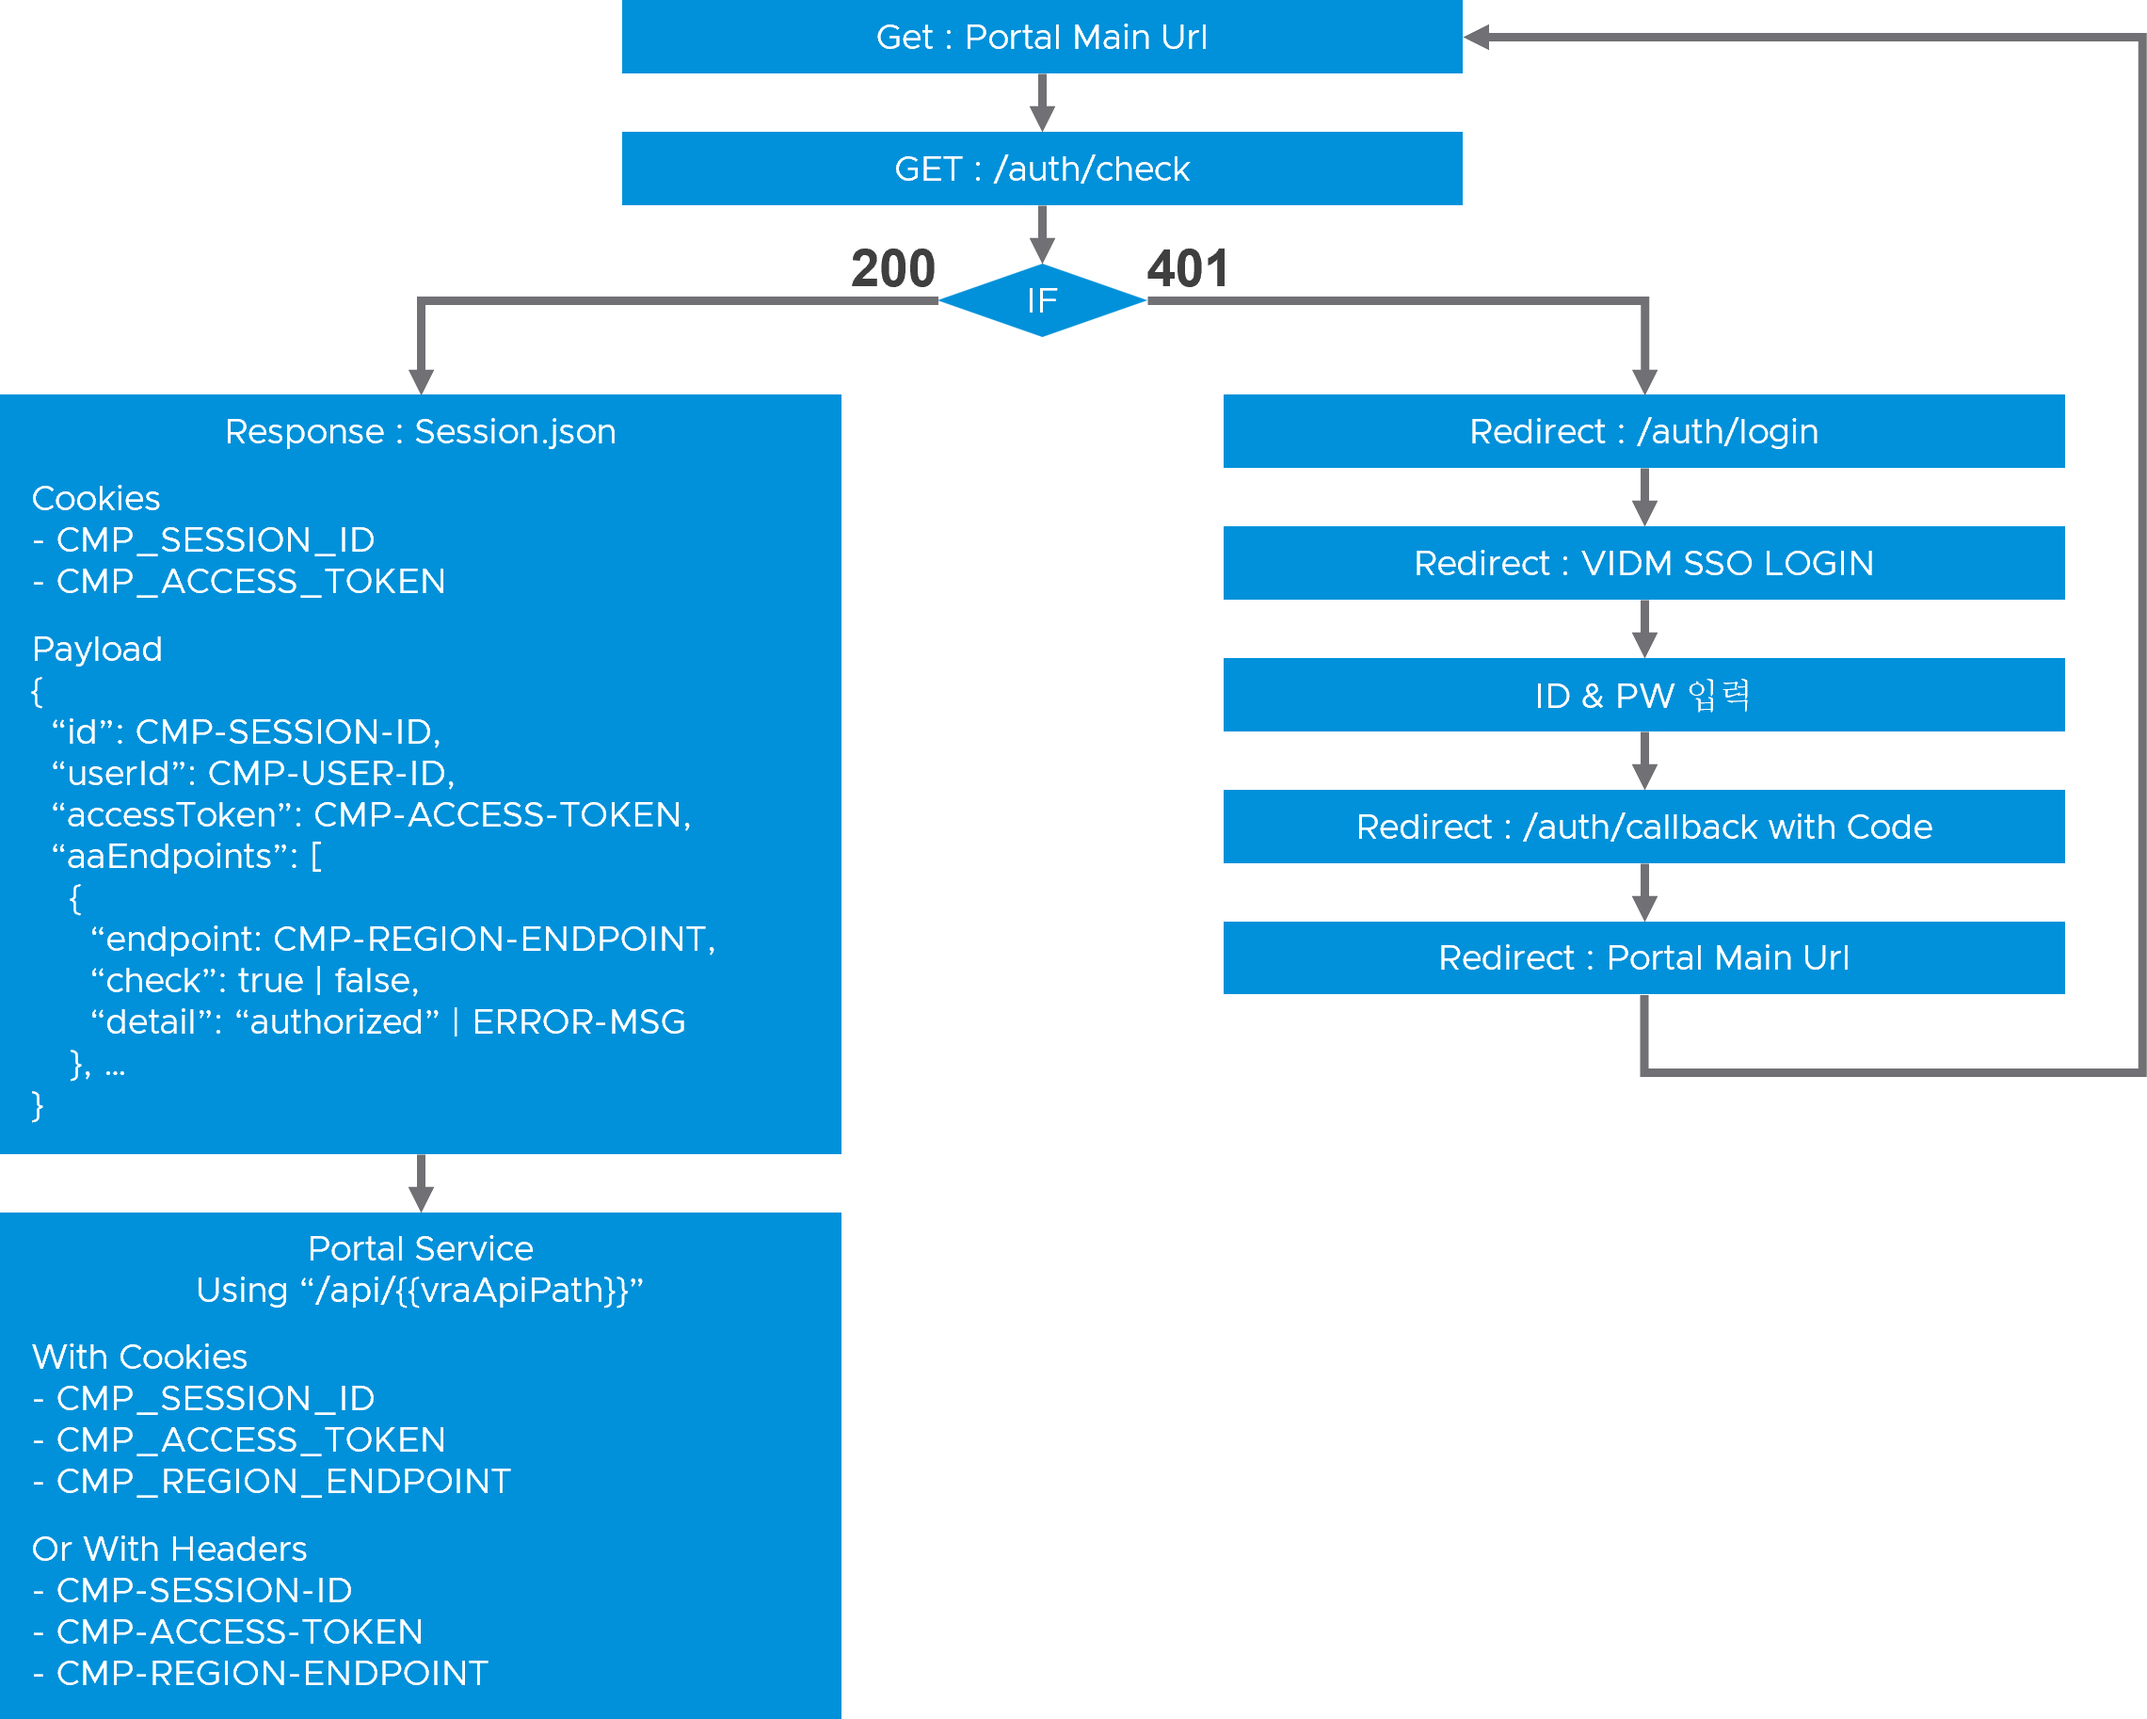
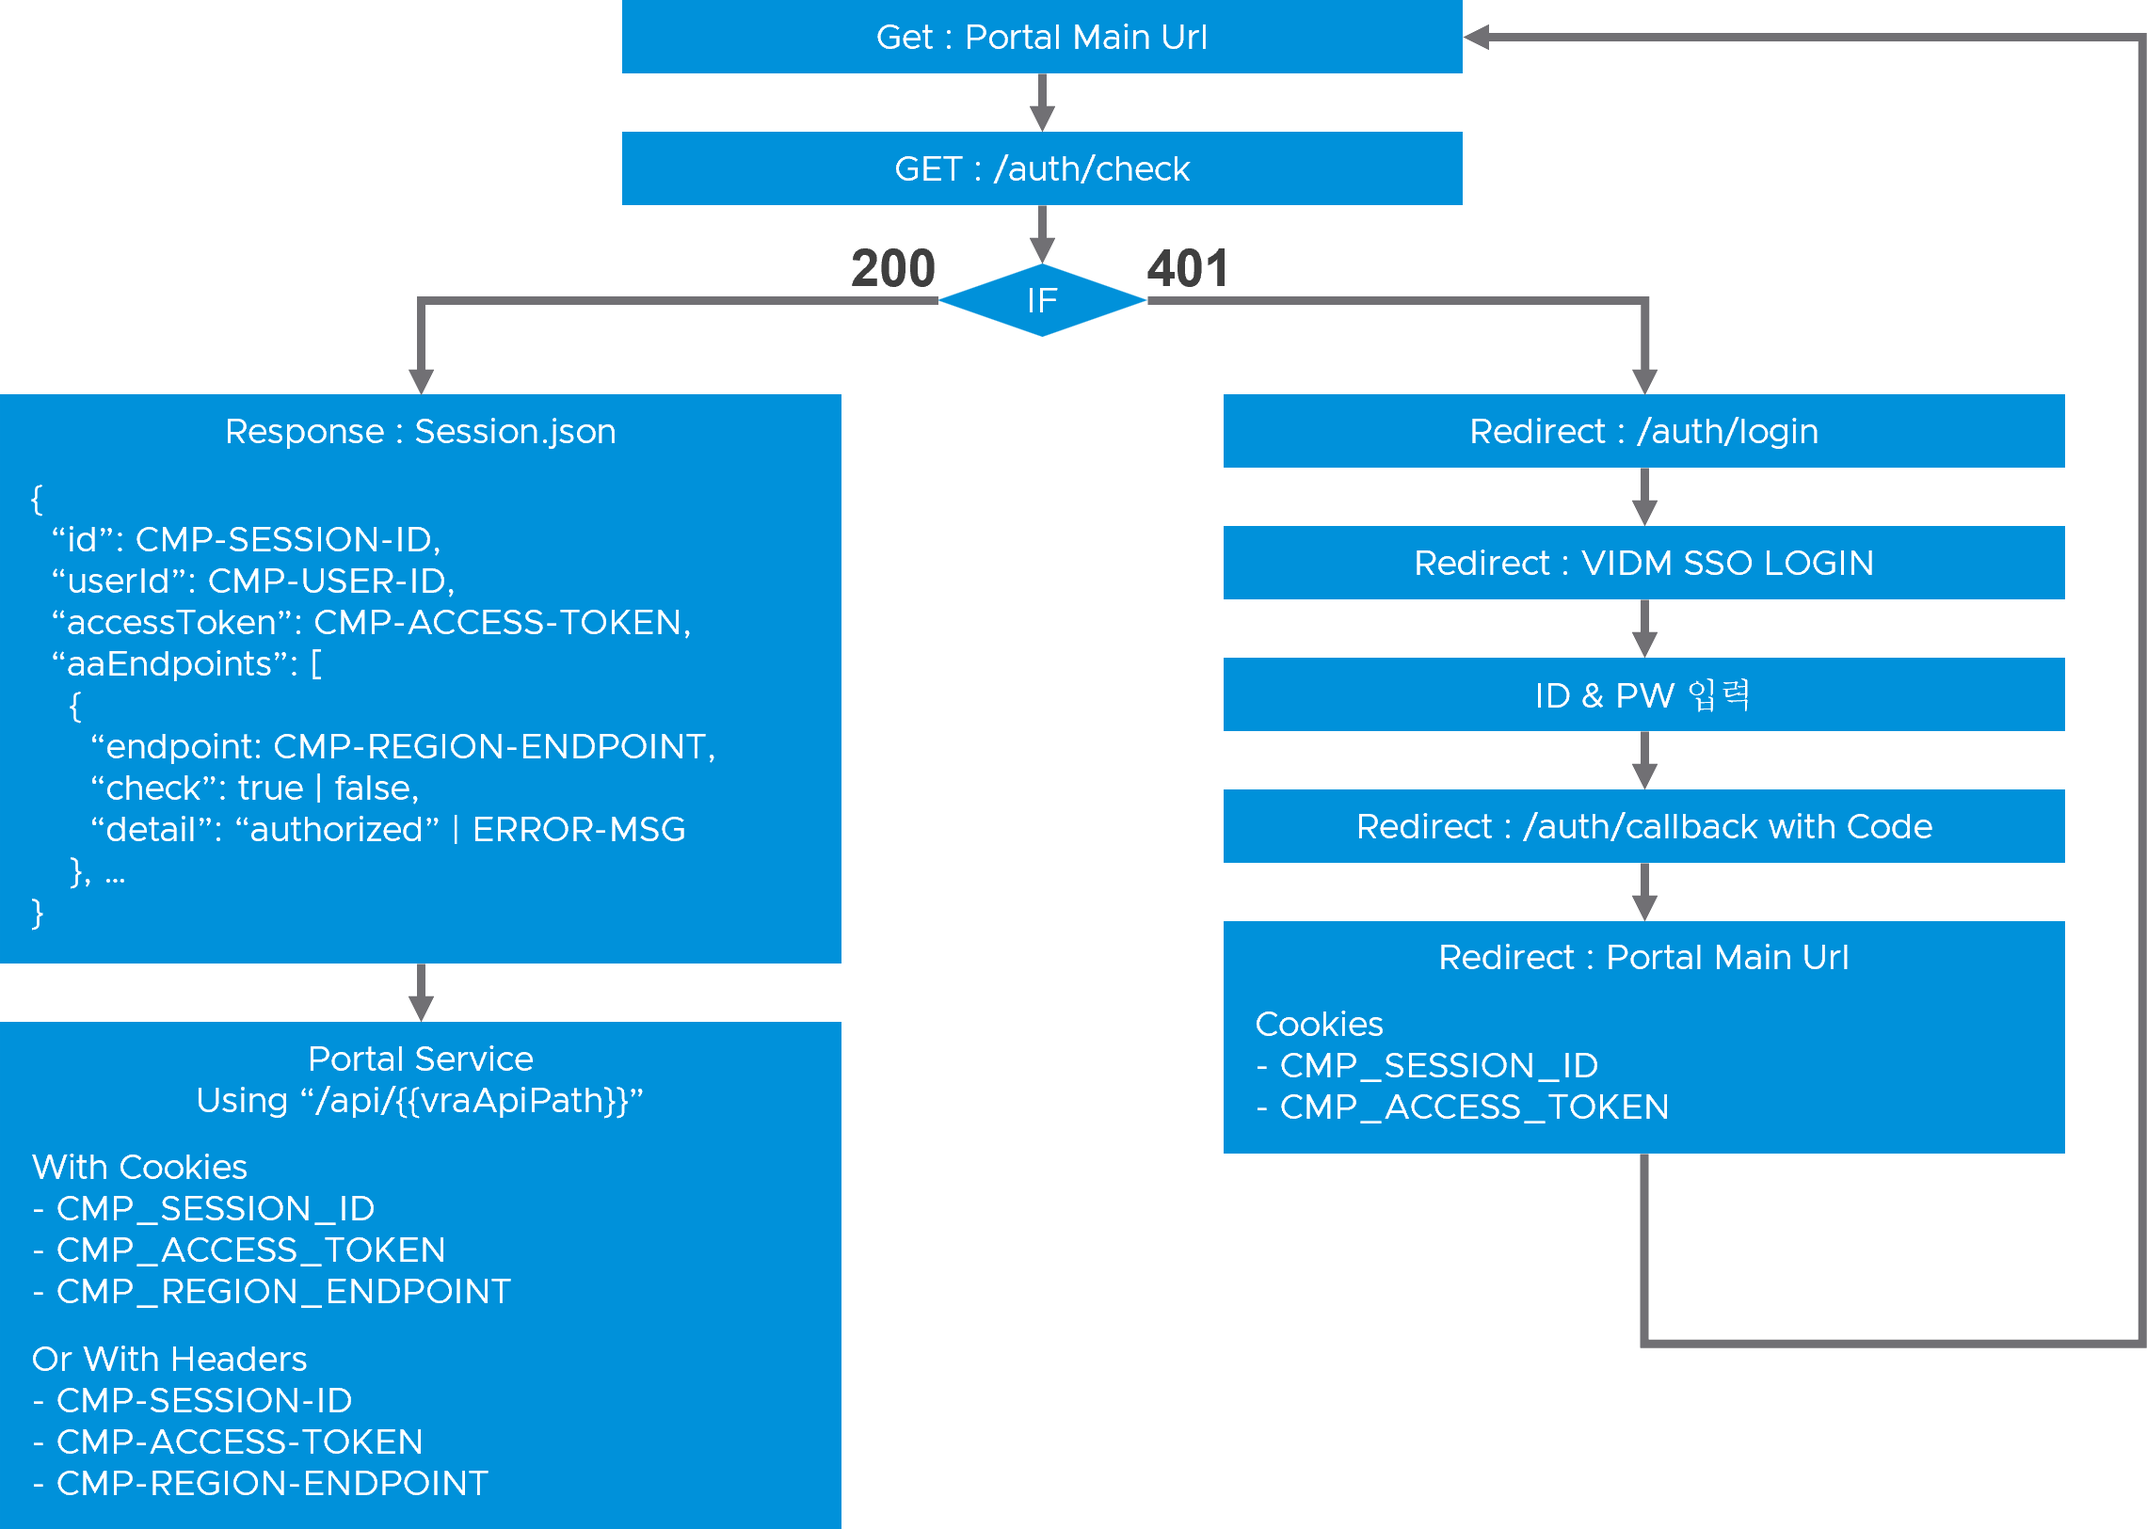
init

Changed region(s): [[0.0, 0.0, 1.0, 0.9846], [0.6848, 0.0, 0.9961, 0.0308]]

diff --git a/docs/AUTH.md b/docs/AUTH.md
@@ -4,3 +4,10 @@
 
 <p align="center"><img src="https://github.com/vmware-cmbu-seak/opera/blob/main/docs/images/opera_auth_1.png?raw=true" width="50%"></p>
 
+## 로그아웃
+
+<p align="center"><img src="https://github.com/vmware-cmbu-seak/opera/blob/main/docs/images/opera_auth_2.png?raw=true" width="50%"></p>
+
+
+## 추가 서비스 모듈 개발시 사용자 인증을 통한 Backend Aria Automation 토큰 확인 방법
+
